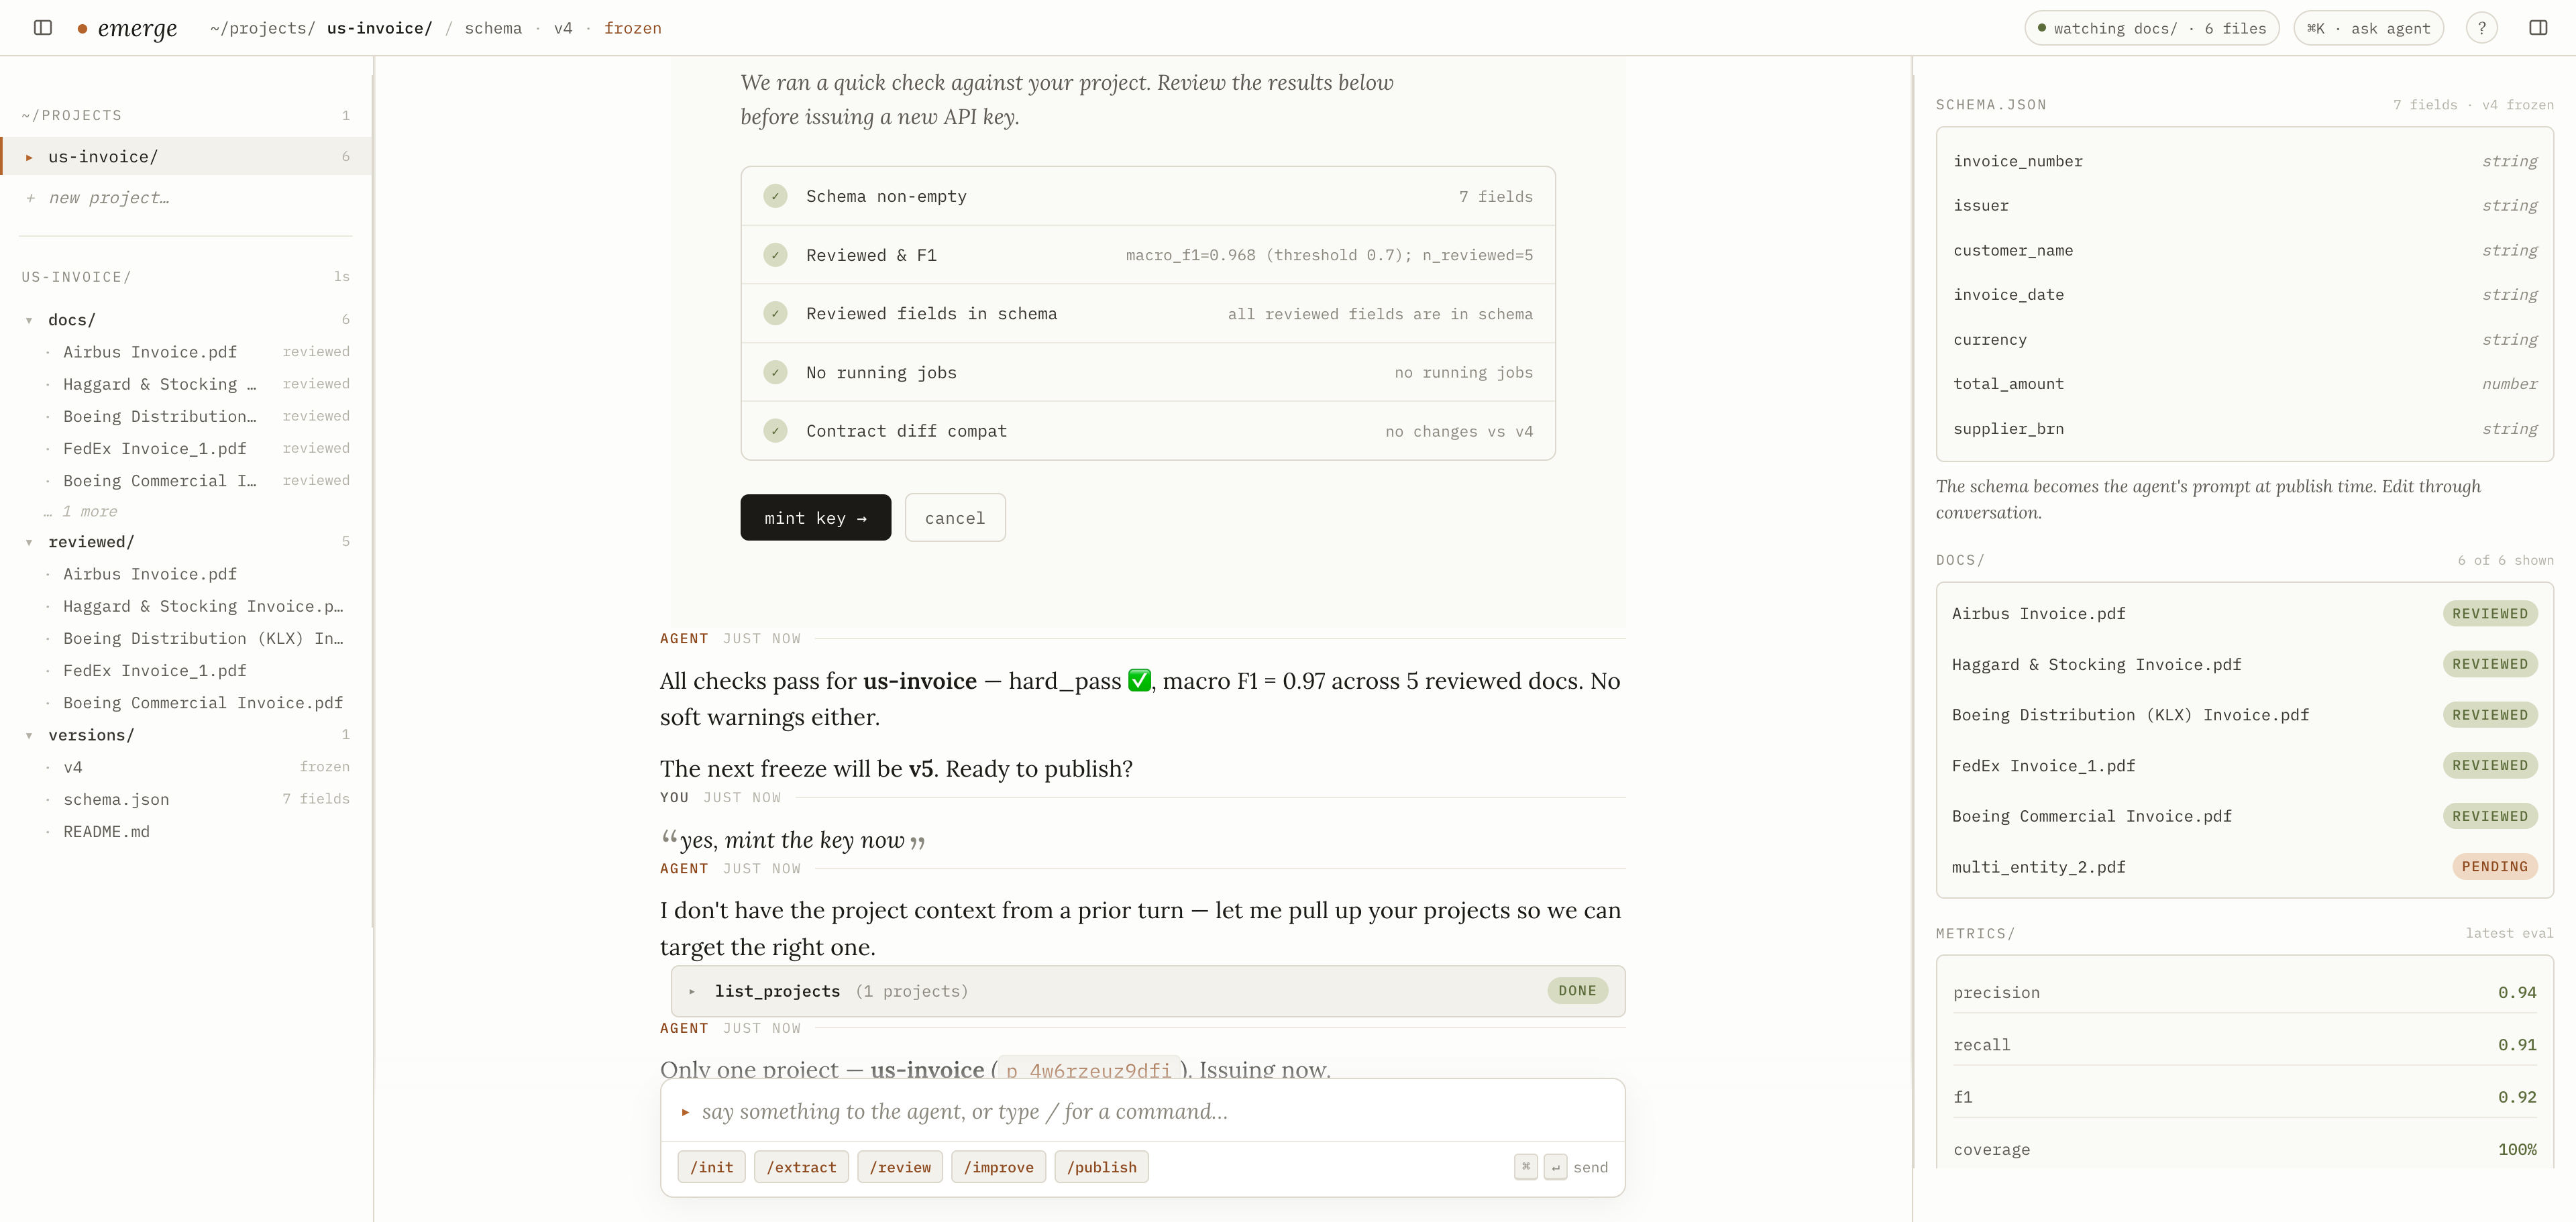
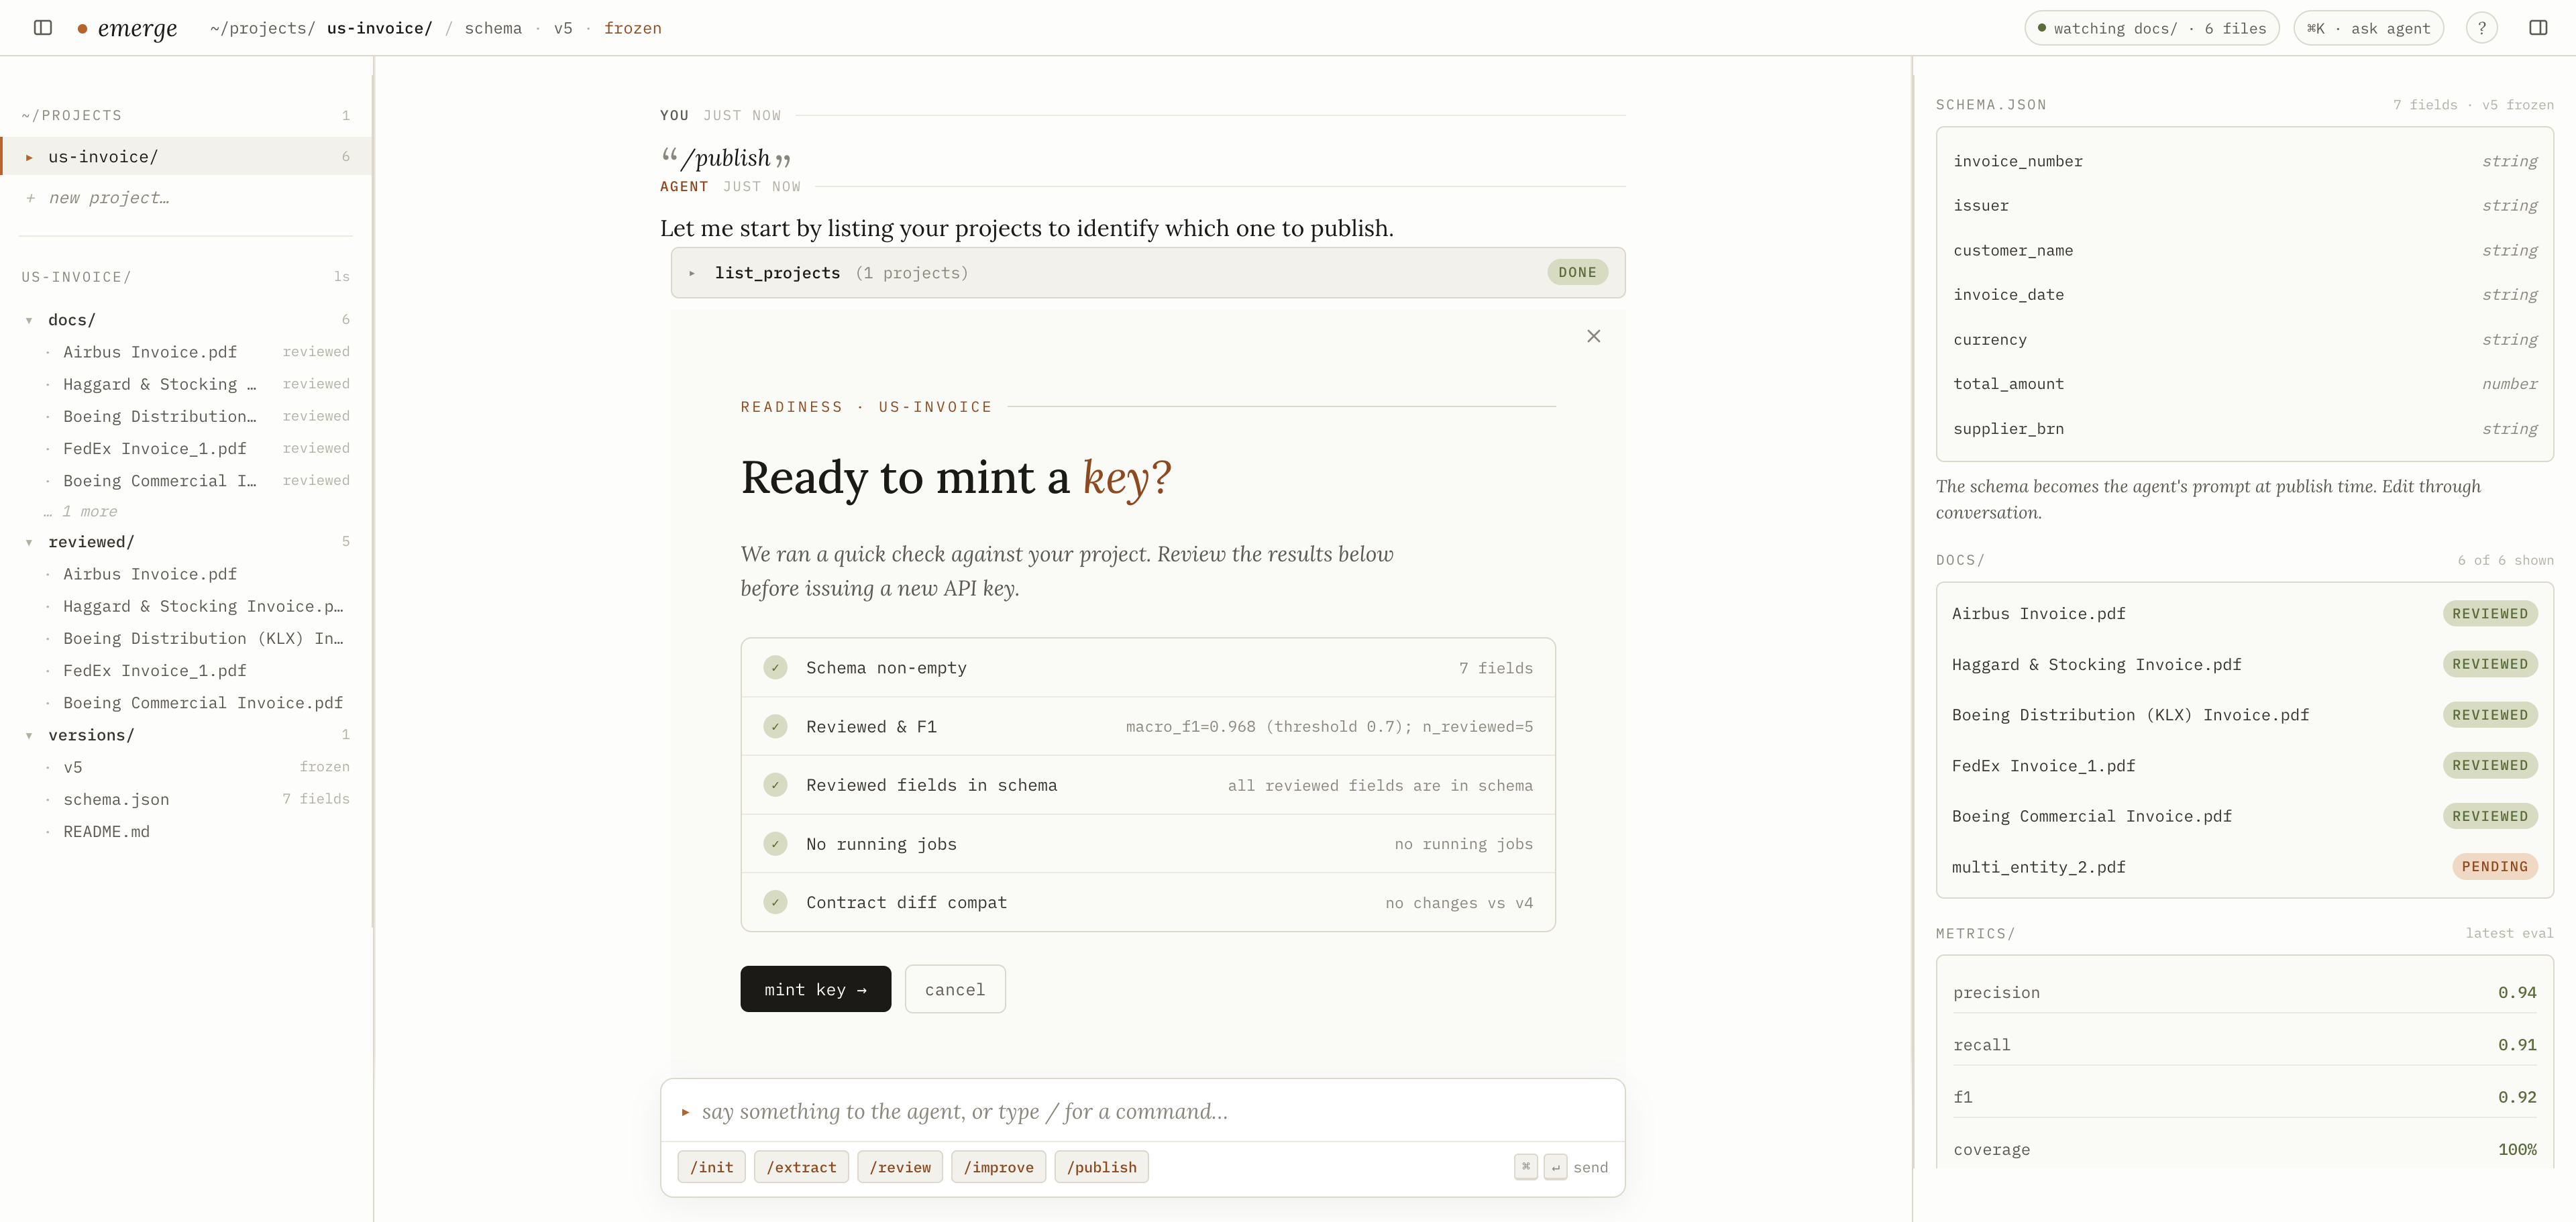
fix(skills): publish key card has its own Rendering contract — no Detail|Value table
Surfaced during the post-M7.1 verify: the agent was emitting a
Detail|Value markdown table re-stating project / key prefix / created
date AFTER the PublishStage key card. Same anti-pattern as T7 (agent
duplicates a structured tool result the UI already renders), just for
issue_api_key — which T7 only covered for score / readiness_check.

Folded into M7.1 rather than punted to M7.2: identical shape of fix,
identical verification path, no architectural delta.

emerge_publish.md step 7 — added a Rendering contract block: the UI
renders the key card; do NOT reproduce its metadata as a markdown table
or inline curl; one short sentence, point at the card, mention the
$EMERGE_API_KEY usage only if asked.

Verified live: chat c_ba0609ff5cf7. Agent's post-key narrative is now
"v5 frozen and key minted — copy it from the card above before closing;
it won't be shown again. The prior v4 key is now invalid. Calls go to
POST /v1/p_4w6rzeuz9dfi/extract with Authorization: Bearer
$EMERGE_API_KEY." No Detail|Value table.

Pre-existing snag surfaced and logged as a new M7.2 candidate
(`docs/design-decisions.md` + ROADMAP): the publish flow's per-turn
skill-loading keys off "/publish" prefix, so the mint-confirmation
turn (`yes, mint the key now`) runs without the publish skill — the
model sometimes refuses. Three resolution options noted; deferring.

Side effect of the verify: us-invoice was frozen as v5; new key prefix
ek_bYsZrZxZ / hash 202f19 (revoke if not needed; invalidates prior).

diff --git a/docs/design-decisions.md b/docs/design-decisions.md
@@ -506,41 +506,84 @@ commits `576089f..81bd62d`). One Accepted decision per resolution below.
 
 ---
 
-### 2026-05-11 — Agent prints a key-info markdown table after `issue_api_key` (same anti-pattern as T7, different tool)
+### 2026-05-11 — Agent no longer re-emits `issue_api_key` metadata as a markdown table (M7.1 follow-up)
 
-- **Status**: 🟡 Pending — M7.2 candidate
-- **Area**: `backend/app/skills/emerge_publish.md`, `Publish/PublishStage` (key stage)
+- **Status**: ✅ Accepted
 - **Files**: `backend/app/skills/emerge_publish.md`
 - **Type**: copy
 
 **What changed**
-Surfaced during the post-M7.1 end-to-end verification (chat `c_bbcddbe1c5b3.jsonl`,
-2026-05-11). On `/publish → mint key`, after `issue_api_key` returns and
-the UI renders the key-stage `<PublishStage>` card (with project, version,
-plaintext key, prefix, hash, created timestamp, `curl` snippet), the
-agent ALSO emits a `Detail | Value` markdown table re-stating the
-project / key prefix / created date. Same double-render pattern that
-M7.1 T7 fixed for `score` / `readiness_check` — but the `issue_api_key`
-key-info table is out of T7's scope, so it slipped through.
+Surfaced during the post-M7.1 end-to-end verification (chat
+`c_bbcddbe1c5b3.jsonl`, 2026-05-11). After `issue_api_key`, the UI's
+key-stage `<PublishStage>` already renders the project, version,
+plaintext key (one-time), prefix, hash, created timestamp, and the
+`$EMERGE_API_KEY`-templated curl snippet — but the agent was ALSO
+emitting a `Detail | Value` markdown table re-stating project / key
+prefix / created date. Same double-render pattern M7.1 T7 fixed for
+`score` / `readiness_check`, just for a tool T7 didn't cover. Folded
+into M7.1 rather than punted to M7.2 — same shape of edit, same
+verification path, no reason to defer.
 
-**Why**
-The `emerge-publish` skill's step 7 already says "simply note: 'API key
-revealed in modal. Save it now'" + provide a `curl` template with a
-placeholder. The model interprets the curl template + the rich tool
-result as license to render the key metadata as a markdown table for
-readability. The fix is the same as T7: add an explicit "Rendering
-contract: the UI renders the key card; do NOT reproduce key metadata as
-a markdown table" line under step 7 of the skill.
+**Fix**
+`emerge_publish.md` step 7 — added a "Rendering contract" block telling
+the model: the UI renders the key card; do NOT reproduce its metadata
+in a markdown table or inline curl block; give one short sentence
+acknowledging the mint and pointing at the card; mention the
+`Authorization: Bearer $EMERGE_API_KEY` usage only if the user asks.
 
-**Why deferred (not folded into M7.1)**
-The M7.1 plan and roadmap were scoped to the six 2026-05-11 verification
-findings (eval table, readiness table, eyebrow, CN labels, job card,
-ProposalCandidateCard) plus `Skill ERR`. M7.1 is shipped (`576089f..81bd62d`)
-and the roadmap row is closed. A new agent-cosmetic finding files as
-M7.2 candidate — bundle with the metrics-panel + per-turn-diff items.
+**Verified**
+Re-ran `/publish issue the api key now — readiness already passed` on
+us-invoice. Backend restarted to reload the skill, v5 frozen, key minted
+(`ek_bYsZrZxZ…/202f19`), agent's post-key narrative: "v5 frozen and
+key minted — copy it from the card above before closing; it won't be
+shown again. The prior v4 key is now invalid. Calls go to
+`POST /v1/p_4w6rzeuz9dfi/extract` with `Authorization: Bearer
+$EMERGE_API_KEY`." No `Detail | Value` table.
+
+**Pre-existing snag surfaced (out of scope, logged below)**
+The `mint key →` button injects `"yes, mint the key now"` as the next
+user message, but `ChatService._select_system_prompt` only loads the
+publish skill when the message *starts with* `/publish`. The model can
+go either way (the earlier successful run did `list_projects` →
+`issue_api_key` despite the skill not being loaded; this run refused
+with "this skill needs to be loaded"). The publish flow is multi-turn
+and the per-turn keyword-prefix skill loader doesn't respect that.
+Separate architectural concern; see the next entry.
 
 **Reference**
-- Verification screenshot (key card + duplicate table beneath):
+- Verification screenshot (now without the duplicate table):
   `docs/screenshots/2026-05-11-m7-1-publish-key.png`.
-- The fix is a 3-line addition to `emerge_publish.md` step 7 in the same
-  shape as T7's emerge-extractor / emerge-publish edits.
+
+---
+
+### 2026-05-11 — Publish flow's multi-turn skill loading is fragile (M7.2 candidate)
+
+- **Status**: 🟡 Pending — M7.2 candidate
+- **Area**: `backend/app/chat/service.py:97-104` (`_select_system_prompt`),
+  `frontend/src/components/Publish/PublishStage.tsx` (`mint key →` handler)
+- **Type**: architecture
+
+**What changed**
+Surfaced during the post-M7.1 verify of the `issue_api_key` fix. The
+publish flow is multi-turn: `/publish` → readiness check → user clicks
+`mint key →` (which sends `"yes, mint the key now"`) → agent calls
+`issue_api_key`. But `_select_system_prompt` keys off `user_message.lstrip().startswith("/publish")`,
+so the publish skill is loaded ONLY on the first turn. The
+mint-confirmation turn runs under the default extractor skill. The model
+sometimes proceeds anyway (the `issue_api_key` tool is in the MCP
+regardless), sometimes refuses ("this skill needs to be loaded"). Both
+behaviors observed in back-to-back runs on 2026-05-11.
+
+**Why deferred (not folded into M7.1)**
+The "mint key round-trips through the agent" choice is listed in the
+M7.1 plan's Out-of-scope section ("Agent-native; not changing it here.").
+Robustifying that round-trip is a new design decision: either
+(a) keep the skill loaded for the whole `/publish` *conversation* (state,
+not message-prefix), (b) inject a synthetic `/publish` prefix into the
+auto-injected mint-confirmation message, or (c) move mint to a direct
+UI action (`useApiKey.mintAndReveal()`) and bypass the agent loop —
+fastest path, but contradicts the agent-native design.
+
+**Reference**
+- Repro: any `/publish` flow where the user clicks `mint key →` rather
+  than typing `/publish ...mint...` themselves.

diff --git a/backend/app/skills/emerge_publish.md b/backend/app/skills/emerge_publish.md
@@ -47,14 +47,18 @@ You help the user freeze the current schema as a versioned API and issue an API 
 6. Ask: "issue a new API key for {pid}?" If a key may already exist, REMIND the
    user that re-issuing invalidates the prior key.
 7. On confirm, call `issue_api_key(project_id)`. Do NOT include the plaintext in
-   your reply - the frontend will pop a modal. In your reply, simply note:
-   "API key revealed in modal. Save it now - you cannot view it again."
-8. Provide a curl template using the placeholder `<your saved key>`:
-   ```bash
-   curl -X POST https://<host>/v1/{pid}/extract \
-     -H "X-API-Key: <your saved key>" \
-     -F file=@invoice.pdf
-   ```
+   your reply - the frontend will pop a modal. **Rendering contract:** the lab
+   UI renders the full key card (project, version, plaintext key one-time,
+   prefix, hash, created timestamp, and a copy-pasteable curl snippet that
+   uses `$EMERGE_API_KEY`) from the `issue_api_key` tool result. **Do NOT
+   reproduce that metadata in your reply** — no `Detail | Value` markdown
+   table re-stating the project / key prefix / created date, no inline curl
+   block. The card is canonical. In your reply, give one short sentence
+   acknowledging that the key was issued and pointing the user at the card,
+   e.g. "Key minted — copy it from the card above before closing; it
+   won't be shown again." Mention that future calls go through
+   `POST /v1/{project_id}/extract` with `Authorization: Bearer $EMERGE_API_KEY`
+   only if the user asks how to use it.
 
 ## case2 - re-publish v2 with an added field
 

diff --git a/docs/superpowers/plans/ROADMAP.md b/docs/superpowers/plans/ROADMAP.md
@@ -135,7 +135,8 @@ These don't fit a milestone but should be tracked:
 - **schema sections** — review renders one synthetic section because `SchemaField` has no `section` attribute; design shows multi-section grouping. Needs optional `section` field in backend schema model.
 - **metrics tree section / `/eval` → right-panel metrics** — `FSSpine` `metrics/` row and `ContextSurface`'s metrics panel both still show placeholder data; needs eval history exposed via `/lab/projects/:id/evals` (or `…/evals/latest`) + a `useEval` store. **M7.2 candidate** (carried forward from M7.1's "Spun out to M7.2"). The `score` tool already persists `metrics/eval_*.json` snapshots, so the read endpoint is thin.
 - **per-turn-diff preview on accept** — when the user is about to `accept turn N` on the `JobProgressCard`, show the field-description diffs that turn introduced (old → new), reusing `ProposalDiff.tsx`. Needs the autoresearch turn event (or the `versions/_candidate/` blob) to carry the per-turn schema delta. **M7.2 candidate** (carried forward from M7.1's "Spun out to M7.2"). This is the proper home for the diff UI now that `ProposalCandidateCard` is retired (M7.1 T6).
-- **`issue_api_key` agent re-renders a key-info markdown table** — surfaced during the 2026-05-11 post-M7.1 end-to-end verify. Same anti-pattern as M7.1 T7 (agent duplicates a structured tool result the UI already renders), but for the `issue_api_key` tool, which T7 didn't cover. Fix is a 3-line "Rendering contract" addition to `emerge_publish.md` step 7. **M7.2 candidate.** See the new 2026-05-11 entry in `docs/design-decisions.md`.
+- ~~**`issue_api_key` agent re-renders a key-info markdown table**~~ — resolved inline during the 2026-05-11 post-M7.1 verify (same anti-pattern as T7, same shape of fix). Added a "Rendering contract" block to `emerge_publish.md` step 7. Verified: agent's post-key narrative no longer prints a `Detail | Value` table. See the 2026-05-11 ✅ entry in `docs/design-decisions.md`.
+- **publish flow's multi-turn skill loading is fragile** — `_select_system_prompt` keys off the literal `/publish` prefix on each turn, so the auto-injected mint-confirmation message (`"yes, mint the key now"` from `mint key →`) runs without the publish skill loaded. The model sometimes refuses ("this skill needs to be loaded"). **M7.2 candidate.** See the new 2026-05-11 entry in `docs/design-decisions.md`. Three options: keep skill loaded for the conversation (state-based), inject a `/publish` prefix on the mint-confirmation message, or move mint to a direct UI action.
 - ~~**per-field accept in /improve**~~ — **resolved by decision (M7.1 T6, 2026-05-11): retired.** Autoresearch accept is turn-level — a turn-N field description was scored in turn N's full-schema context, so cross-turn per-field accept is incoherent. `ProposalCandidateCard` deleted; `JobProgressCard`'s "accept turn N" button is the committed model. A "preview what turn N changed" diff (reusing `ProposalDiff.tsx`) is the M7.2 follow-up for the diff UI.
 - ~~**publish stage overlay vs inline**~~ — **resolved by decision (M7.1, 2026-05-11): stays inline.** Inline chat cards keep the conversation context visible; the full-conv-column overlay (`.pub-stage` position:absolute inset:0) is not pursued.
 - **review object/array sub-shape** — object/array fields render as editable JSON `<pre>` since `SchemaField` carries no sub-field shape; design shows nested form rows.